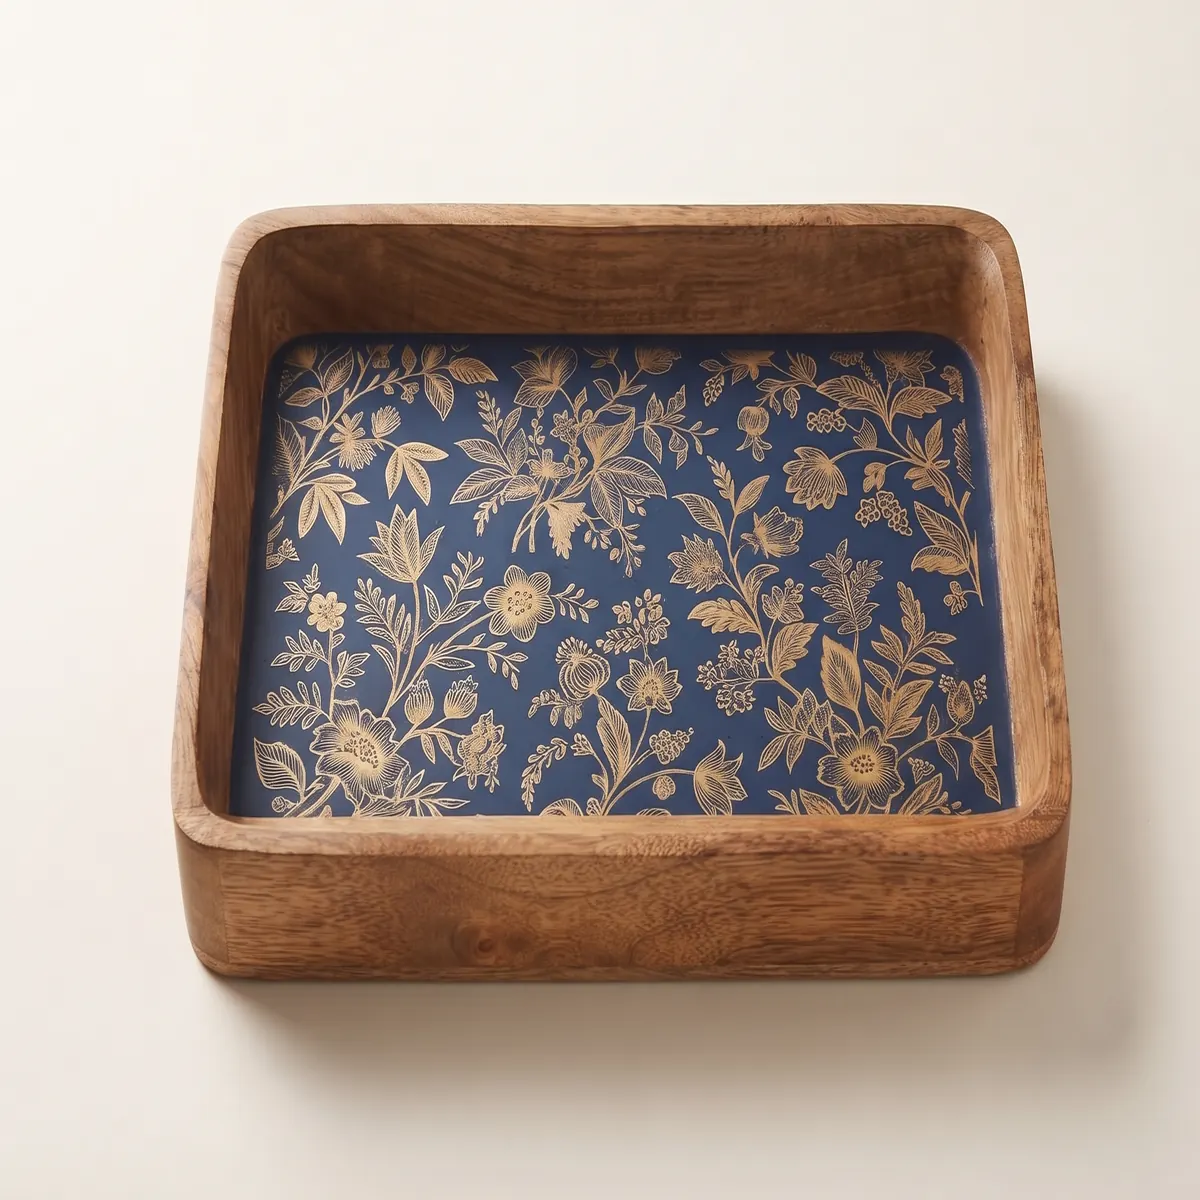
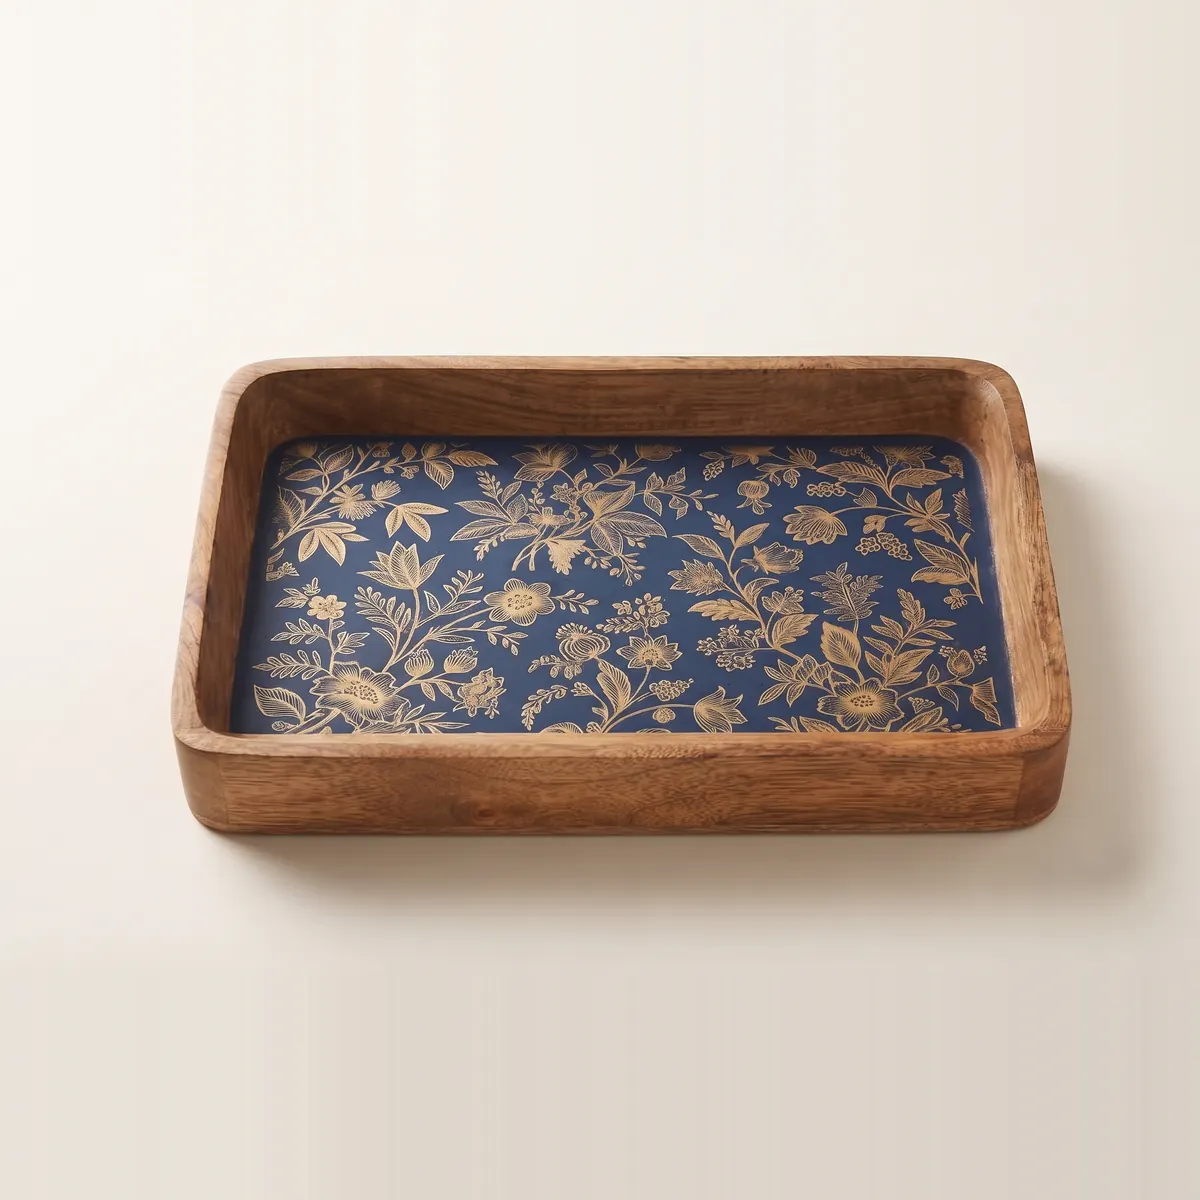
Images: pad non-square sources to square instead of squashing; rebuild PX-05, PX-09
Claude-Session: https://claude.ai/code/session_01BHvtGazxycKD2rFbEZwooc

diff --git a/build/mto_images.py b/build/mto_images.py
@@ -15,16 +15,34 @@ INLAY = "/home/user/agency-research/businesses/woodkari/photos/ai/inlay"
 CAT = "/home/user/agency-research/businesses/woodkari/photos/ai/catalogue"
 SITE_PHOTOS = "/home/user/agency-research/businesses/woodkari/photos/site"
 
+def sq(im):
+    """non-square source -> square canvas, whole picture kept, nothing cropped or squashed; the padded sides continue the picture's own outermost row/column colour (no visible seam); square sources unchanged"""
+    w, h = im.size
+    if w == h:
+        return im
+    n = max(w, h)
+    out = Image.new("RGB", (n, n))
+    if w > h:
+        ox, oy = 0, (n - h) // 2
+        out.paste(im.crop((0, 0, w, 1)).resize((n, oy)), (0, 0))
+        out.paste(im.crop((0, h - 1, w, h)).resize((n, n - oy - h)), (0, oy + h))
+    else:
+        ox, oy = (n - w) // 2, 0
+        out.paste(im.crop((0, 0, 1, h)).resize((ox, n)), (0, 0))
+        out.paste(im.crop((w - 1, 0, w, h)).resize((n - ox - w, n)), (ox + w, 0))
+    out.paste(im, (ox, oy))
+    return out
+
 def make(name):
     im = Image.open(os.path.join(SRC, name + ".png")).convert("RGB")
     for size, suffix in ((1200, ""), (600, "-600")):
-        im.resize((size, size), Image.LANCZOS).save(os.path.join(ROOT, "img", f"m-{name}{suffix}.webp"), "WEBP", quality=78, method=6)
+        sq(im).resize((size, size), Image.LANCZOS).save(os.path.join(ROOT, "img", f"m-{name}{suffix}.webp"), "WEBP", quality=78, method=6)
 
 def make_ow(code):
     for x in "abcdef":
         im = Image.open(os.path.join(CAT, f"{code}-{x}.png")).convert("RGB")
         for size, suffix in ((1200, ""), (600, "-600")):
-            im.resize((size, size), Image.LANCZOS).save(os.path.join(ROOT, "img", f"m-{code.lower()}-{x}{suffix}.webp"), "WEBP", quality=78, method=6)
+            sq(im).resize((size, size), Image.LANCZOS).save(os.path.join(ROOT, "img", f"m-{code.lower()}-{x}{suffix}.webp"), "WEBP", quality=78, method=6)
 
 
 def make_site(code, name):
@@ -66,7 +84,7 @@ def make_inlay(code, name):
                     for sfx in ("", "-600"):
                         q = os.path.join(ROOT, "img", f"m-{name}{old}{sfx}.webp")
                         if os.path.exists(q): os.remove(q)
-            im.resize((size, size), Image.LANCZOS).save(os.path.join(ROOT, "img", f"m-{name}{tag}{suffix}.webp"), "WEBP", quality=78, method=6)
+            sq(im).resize((size, size), Image.LANCZOS).save(os.path.join(ROOT, "img", f"m-{name}{tag}{suffix}.webp"), "WEBP", quality=78, method=6)
         n += 1
     return n
 
@@ -82,7 +100,7 @@ def make_nb(code, letters):
     for x in letters:
         im = Image.open(os.path.join(NB_DIRS[code[:2]], f"{code}-{x}.png")).convert("RGB")
         for size, suffix in ((1200, ""), (600, "-600")):
-            im.resize((size, size), Image.LANCZOS).save(os.path.join(ROOT, "img", f"m-{code.lower()}-{x}{suffix}.webp"), "WEBP", quality=78, method=6)
+            sq(im).resize((size, size), Image.LANCZOS).save(os.path.join(ROOT, "img", f"m-{code.lower()}-{x}{suffix}.webp"), "WEBP", quality=78, method=6)
 
 
 if sys.argv[1:2] == ["nb"]:  # python3 build/mto_images.py nb PX-01:abe IC-N01:abe
